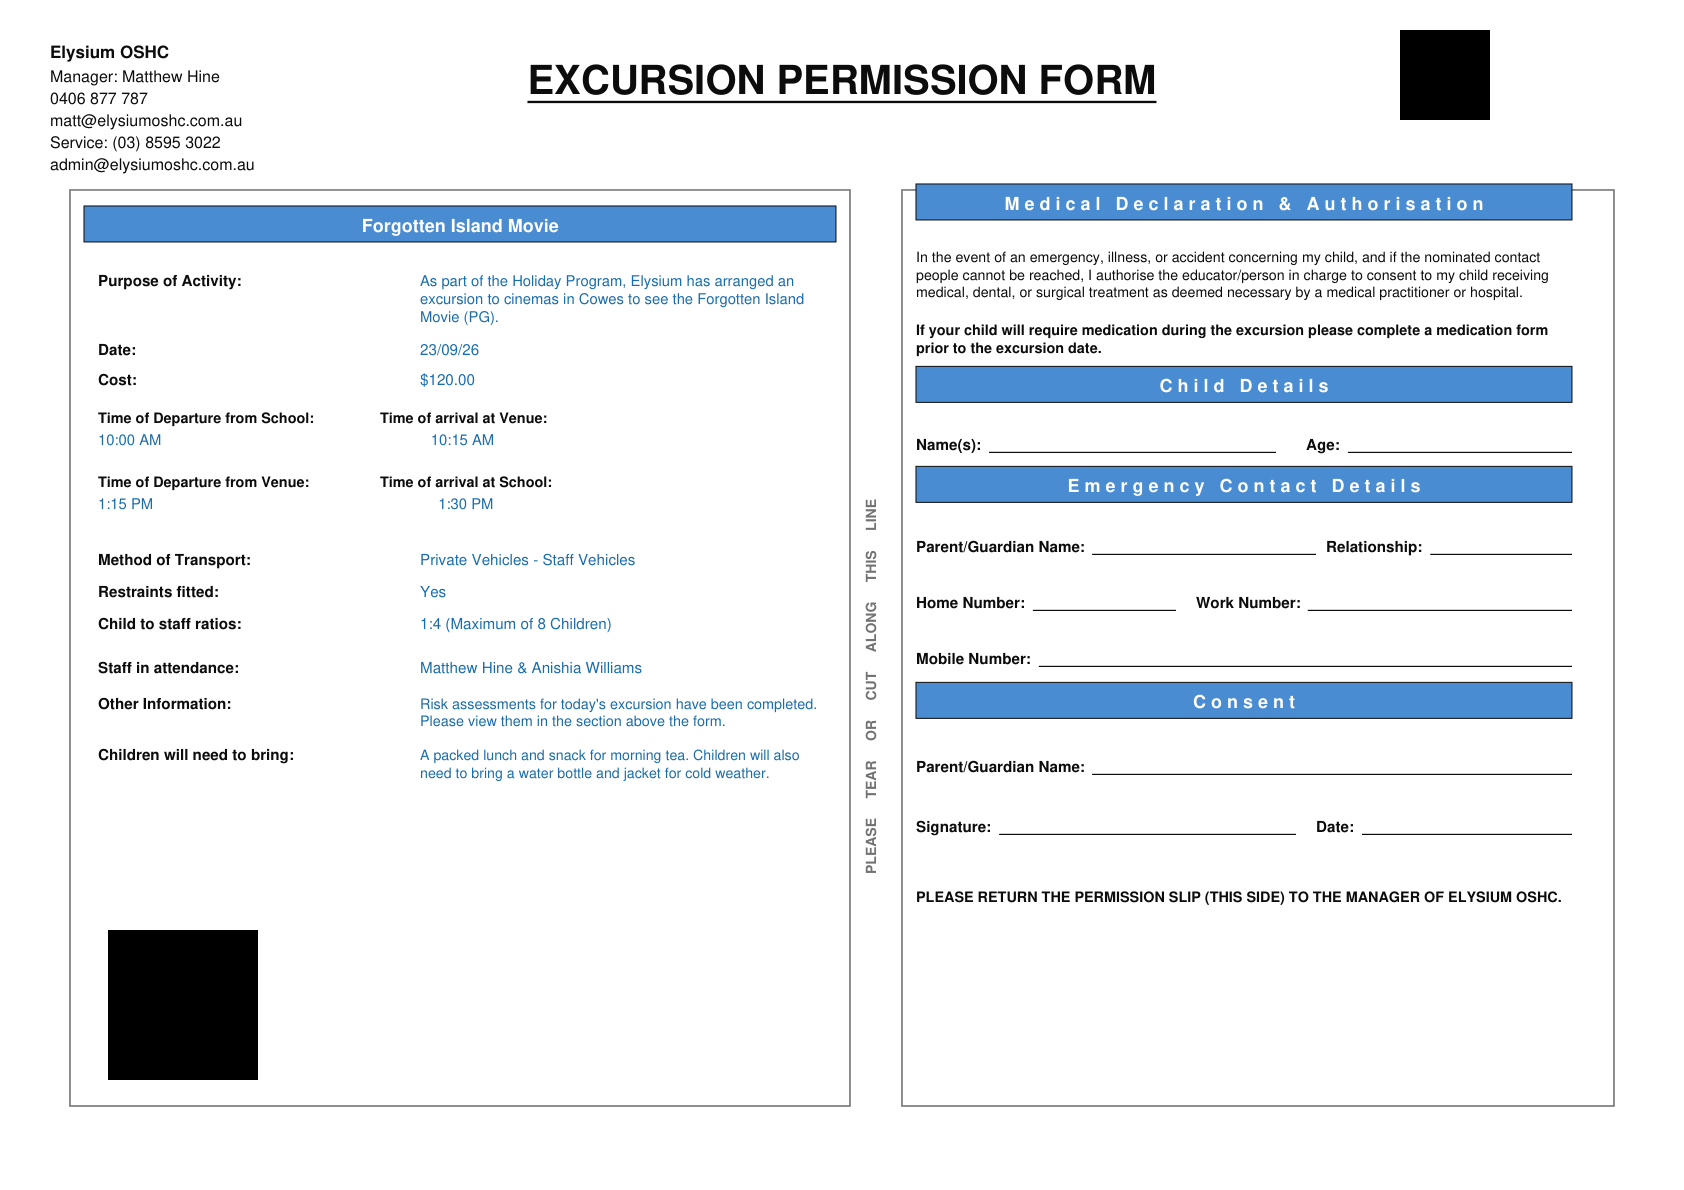
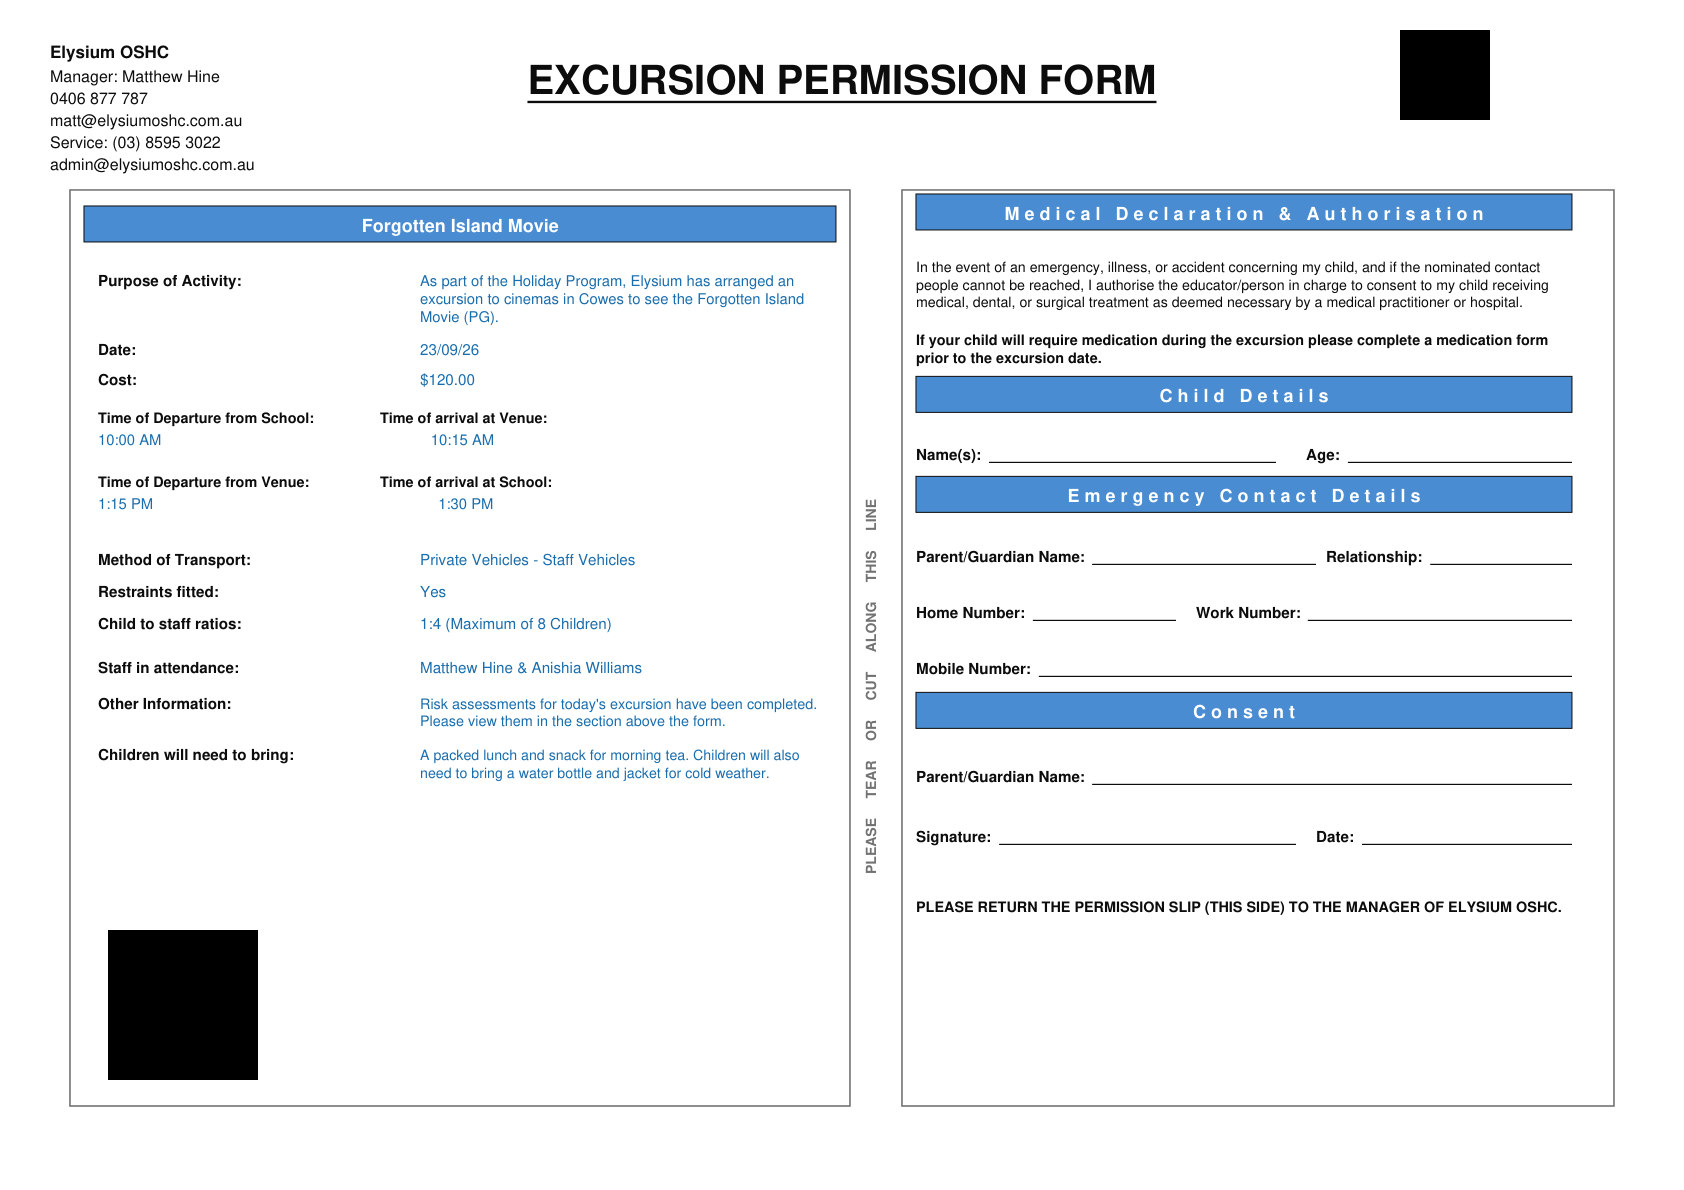
Update excursion form generation logic and assets
Replit-Commit-Author: Agent

diff --git a/artifacts/api-server/src/lib/excursionFormPdf.ts b/artifacts/api-server/src/lib/excursionFormPdf.ts
@@ -240,8 +240,8 @@ export async function generateExcursionFormPdf(input: ExcursionFormPdfInput): Pr
   const rx = rightX + 7;
   const rw = rightWidth - 14;
   const sectionRightX = rx + rw - 14;
-  drawSectionTitle(page, "M e d i c a l   D e c l a r a t i o n   &   A u t h o r i s a t i o n", rx, 485, rw - 14, bold);
-  let ry = 464;
+  drawSectionTitle(page, "M e d i c a l   D e c l a r a t i o n   &   A u t h o r i s a t i o n", rx, 480, rw - 14, bold);
+  let ry = 459;
   ry = drawWrapped(page, input.excursion.medicalAuthorisationText, rx, ry, rw - 20, regular, 7.1, BLACK, 7) - 10;
   ry = drawWrapped(page, "If your child will require medication during the excursion please complete a medication form prior to the excursion date.", rx, ry, rw - 20, bold, 7.2, BLACK, 3) - 16;
   drawSectionTitle(page, "C h i l d   D e t a i l s", rx, ry, rw - 14, bold);
